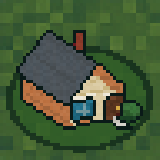
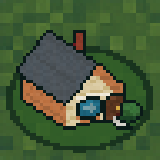
fix(studio): recentre house2's picture window off the door
Was too close to the door edge, then overcorrected too far left toward
the wall edge; recentred with clear margins on both sides.

Changed region(s): [[0.4062, 0.5625, 0.6562, 0.8125], [0.6875, 0.5625, 0.75, 0.5938]]

diff --git a/studio/scenes/house2.py b/studio/scenes/house2.py
@@ -71,7 +71,7 @@ def build(mats):
     # massing reads through a squat window rather than a tall one).
     fx = WALL_W / 2
     win_z = WALL_H * 0.55
-    win_y = -0.4
+    win_y = -0.22
     face_box(mats, 'trim', fx, win_y, win_z, WIN_W + 0.16, WIN_H + 0.16, 0.02, 0.04)
     face_box(mats, 'window', fx, win_y, win_z, WIN_W, WIN_H, 0.05)
     face_box(mats, 'mullion', fx, win_y, win_z, WIN_W, 0.05, 0.065)
